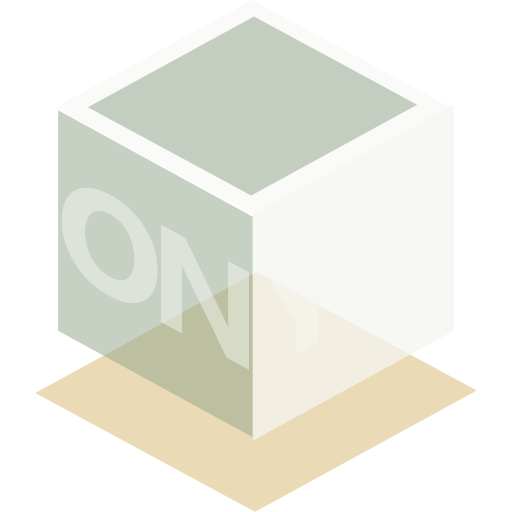
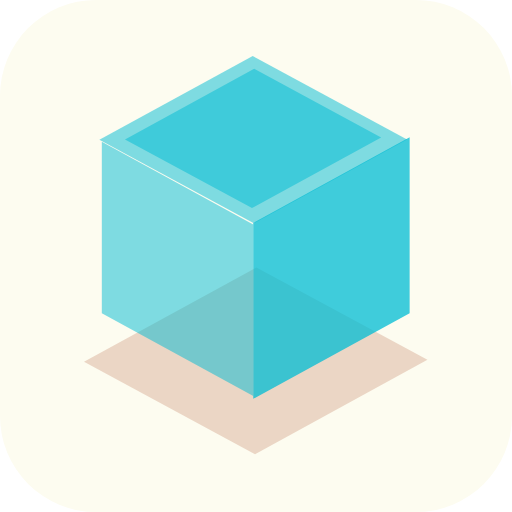
chore(release): v1.70.1 | AQUA Pixel-Perfect Restoration & Binary Suite

diff --git a/index.html b/index.html
@@ -10,12 +10,12 @@
   <link
     href="https://fonts.googleapis.com/css2?family=Atkinson+Hyperlegible:ital,wght@0,400;0,700;1,400;1,700&family=Playfair+Display:ital,wght@0,400..900;1,400..900&family=Outfit:wght@100..900&display=swap"
     rel="stylesheet">
-  <link rel="icon" type="image/svg+xml" href="/favicon.svg?v=1.66.24" />
-  <link rel="icon" type="image/png" href="/favicon.png?v=1.66.24" />
-  <link rel="icon" type="image/png" sizes="192x192" href="/icon-192.png?v=1.66.24" />
-  <link rel="apple-touch-icon" href="/apple-touch-icon.png?v=1.66.24" />
-  <link rel="manifest" href="/manifest.webmanifest?v=1.66.24" />
-  <meta name="theme-color" content="#0d0b0a" />
+  <link rel="icon" href="/favicon.svg?v=1.70.1" />
+  <link rel="icon" type="image/png" href="/favicon.png?v=1.70.1" />
+  <link rel="icon" type="image/png" sizes="192x192" href="/icon-192.png?v=1.70.1" />
+  <link rel="apple-touch-icon" href="/apple-touch-icon.png?v=1.70.1" />
+  <link rel="manifest" href="/manifest.webmanifest?v=1.70.1" />
+  <meta name="theme-color" content="#fdfcf0" />
   <link rel="stylesheet" href="/index.css">
 
 </head>

diff --git a/public/404.html b/public/404.html
@@ -4,7 +4,7 @@
   <meta charset="UTF-8" />
   <meta name="viewport" content="width=device-width, initial-scale=1.0" />
   <title>Onyx.mx — Page Not Found</title>
-  <link rel="icon" href="/favicon.svg?v=1.66.24" />
+  <link rel="icon" href="/favicon.svg?v=1.70.1" />
   <style>
     *, *::before, *::after { box-sizing: border-box; margin: 0; padding: 0; }
 
